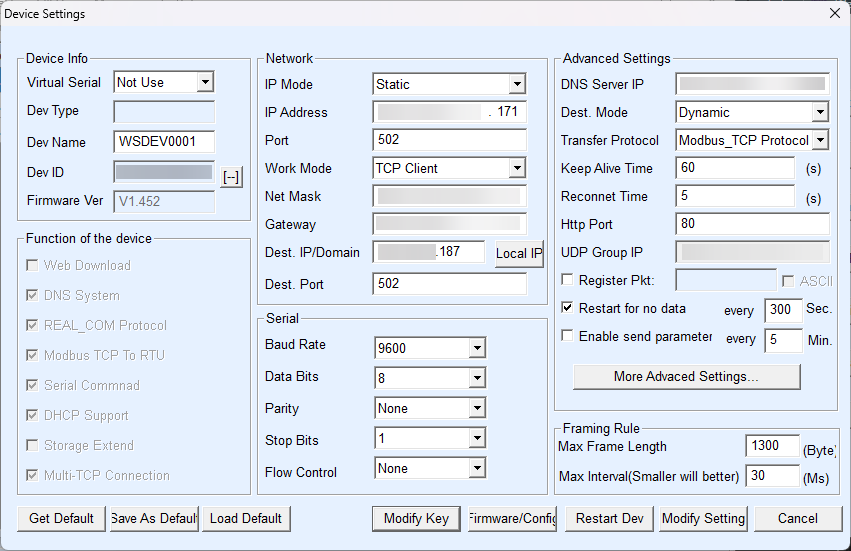
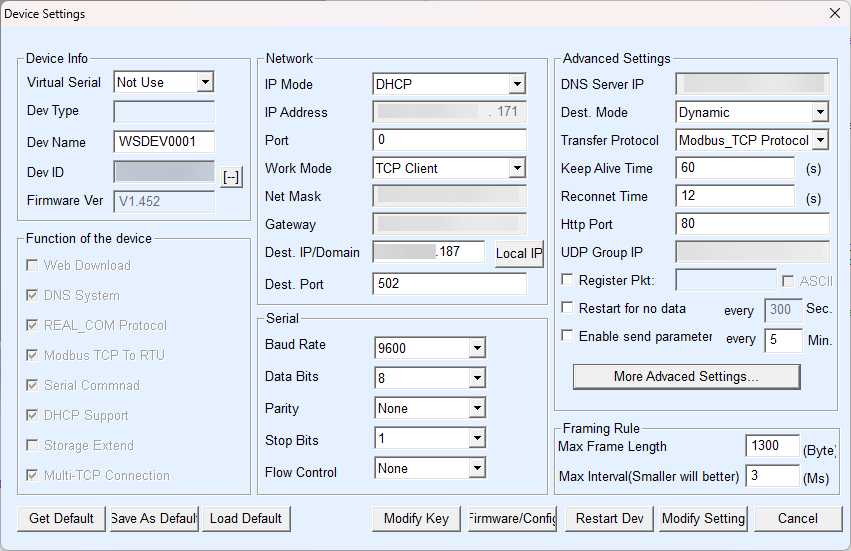
[Changes] Solution Concept and Config updates
Several changes in this commit:
- my DLS-W had to be replaced with S2-WL-ST - while it supports Modbus TCP, we need to remember the purpose of this repo - we want to keep Solis Cloud, and S2-WL-ST disconnects the cloud when its Modbus TCP port is used.
- The previous config was for my previous workload - considering a fault with my DLS-W, it wasn't performing well regardless of the config
- Default Waveshare settings are working great

diff --git a/README.md b/README.md
@@ -18,7 +18,12 @@ The main goal is to ensure that a datalogger can work as normal and without any 
 
 Here it comes the Waveshare gateway to query the inverter. It can serve multiple clients, keep the inverter's cloud reporting functionality,  and is not limited by any supported datalogger. The below is my configuration, but the use case could differ per datalogger.
 
+## Solution Concepts
+**DLS-W
 ![Diagram](/images/solis-custom-diagram.png)
+
+**S2-WL-ST
+![Diagram](/images/solis-custom-diagram-s2.png)
 
 The main device is the Waveshare RS485 to PoE ETH (B) - the non-PoE version is described as per [this guideline](https://github.com/wills106/homeassistant-solax-modbus/wiki/Installation-Notes#option-1-waveshare-rs485-to-eth-b-din-rail-mounted-model). There are no major differences between PoE and non-PoE devices, except for the convenience of powering those when you have multiple next in line.
 
